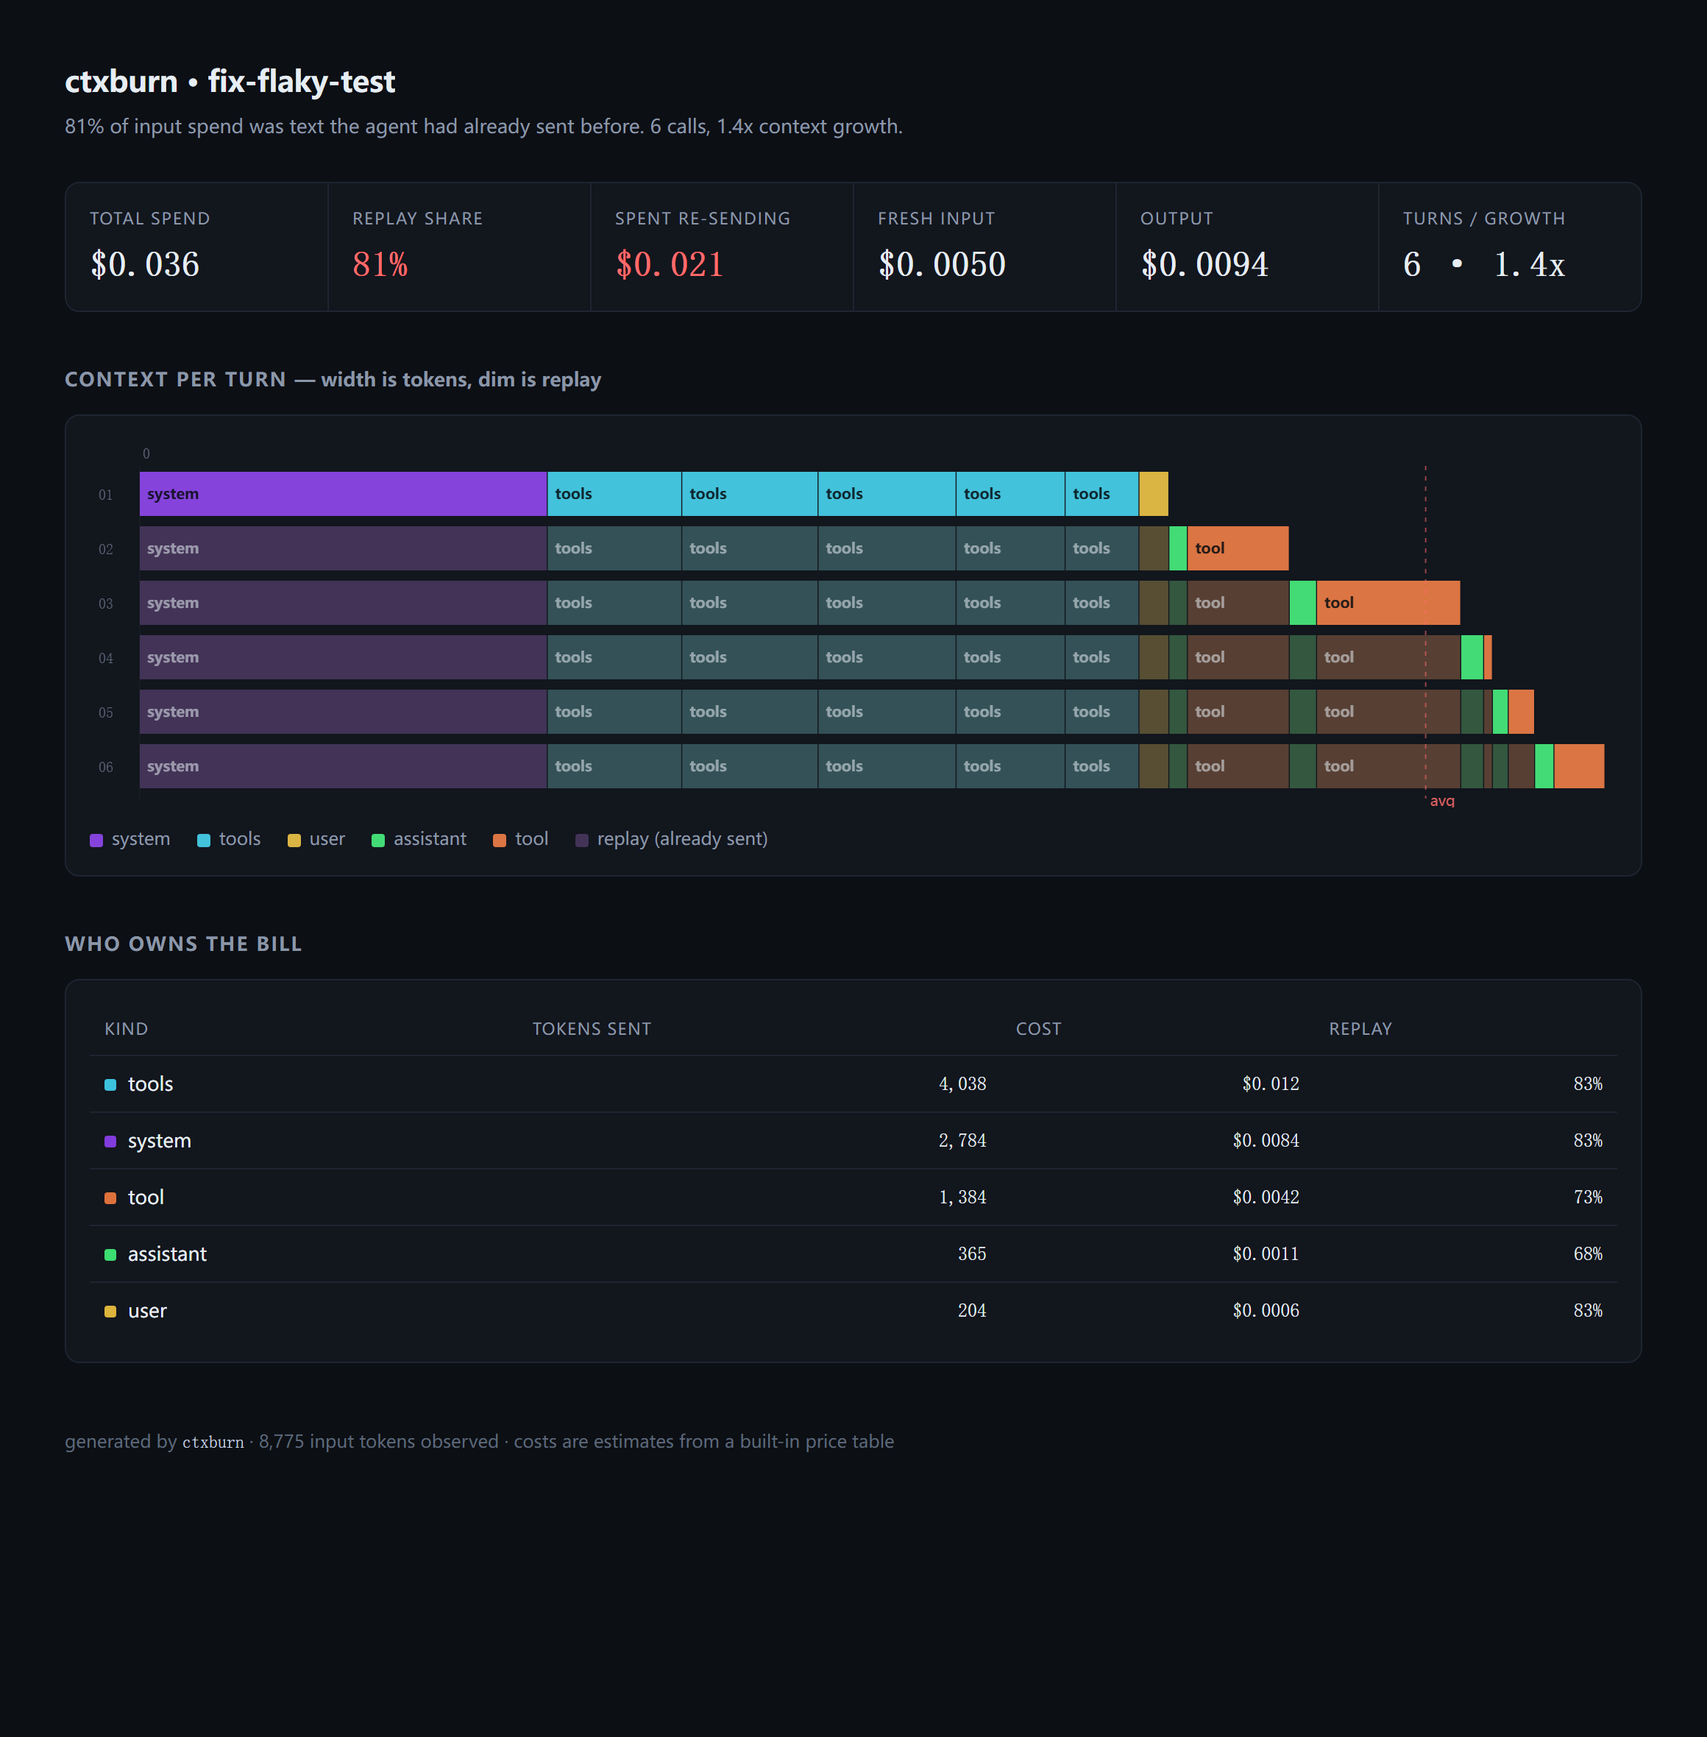
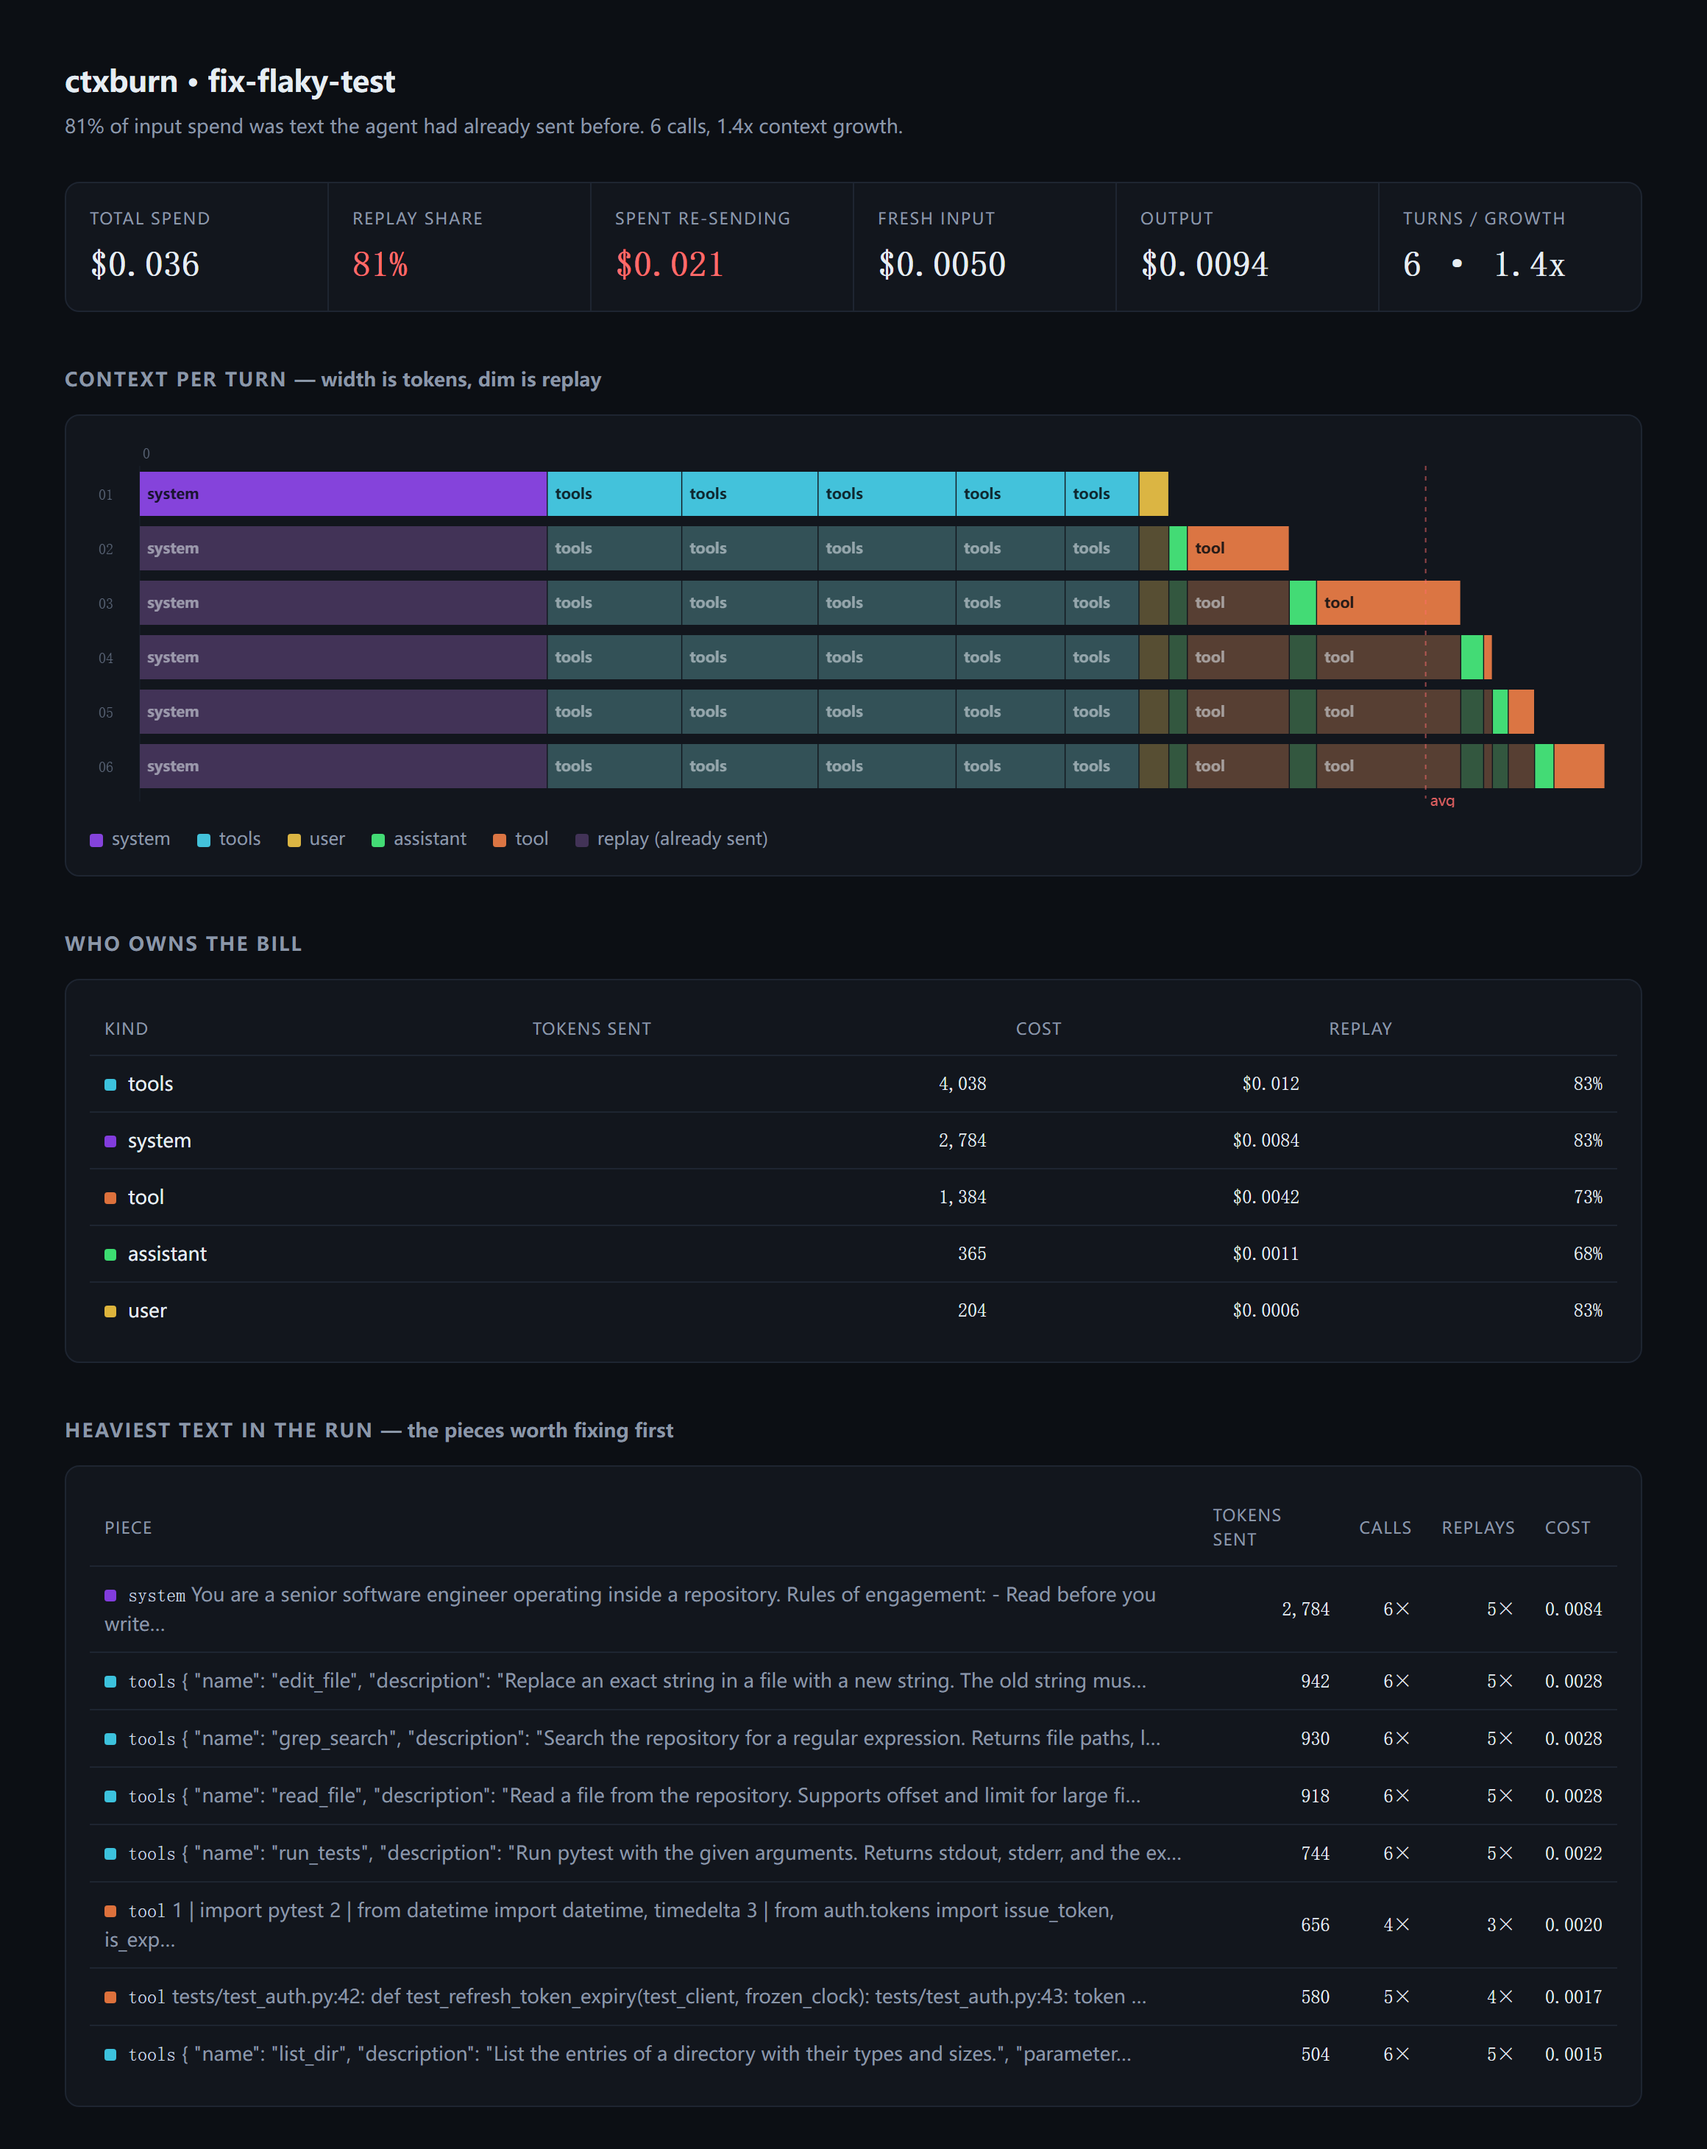
split tool schemas into per-tool segments and rank the heaviest pieces
A tool description is re-sent on every turn, so the report needs to name the
expensive one rather than hiding the set behind a single 'tools' bar.

diff --git a/src/ctxburn/render.py b/src/ctxburn/render.py
@@ -3,6 +3,7 @@
 from __future__ import annotations
 
 import json
+from html import escape
 
 from .analyze import Report
 
@@ -47,6 +48,20 @@ def render_html(report: Report, title: str | None = None) -> str:
         for k, v in kinds
     )
     winnable = r.cost_replay + r.cost_cached
+
+    def _top_row(s: dict) -> str:
+        hue = _HUE.get(s["kind"], 0)
+        return (
+            f'<tr><td><span class="dot" style="background:hsl({hue} 70% 55%)"></span>'
+            f'<code>{s["kind"]}</code> <span class="dim">{escape(s["preview"])}</span></td>'
+            f'<td class="num">{int(s["tokens"]):,}</td>'
+            f'<td class="num">{s["sends"]}×</td>'
+            f'<td class="num">{s["replays"]}×</td>'
+            f'<td class="num">{s["cost"]:.4f}</td>'
+            f"</tr>"
+        )
+
+    top_rows = "".join(_top_row(s) for s in r.top_segments)
     html = _TEMPLATE
     html = html.replace("__SUMMARY__", summary_line(r))
     html = html.replace("__TITLE__", headline)
@@ -59,6 +74,7 @@ def render_html(report: Report, title: str | None = None) -> str:
     html = html.replace("__GROWTH__", f"{r.context_growth:.1f}x")
     html = html.replace("__INTOK__", f"{r.total_input_tokens:,}")
     html = html.replace("__KINDROWS__", kind_rows)
+    html = html.replace("__TOP_ROWS__", top_rows)
     html = html.replace("__DATA__", payload.replace("</", "<\\/"))
     return html
 
@@ -105,6 +121,7 @@ _TEMPLATE = """<!doctype html>
     background:#05070a;border:1px solid var(--line);border-radius:7px;padding:7px 10px;
     font-size:12px;max-width:420px;z-index:9;box-shadow:0 8px 24px #0009}
   #tip b{color:var(--fresh)}
+  .dim{color:var(--dim)}
   footer{margin-top:44px;color:#5c6779;font-size:12px}
   code{font-family:ui-monospace,Menlo,monospace;color:#c9d4e2}
 </style></head><body><div class="wrap">
@@ -132,6 +149,14 @@ _TEMPLATE = """<!doctype html>
     <div class="card"><table>
       <thead><tr><th>kind</th><th class="num">tokens sent</th><th class="num">cost</th><th class="num">replay</th></tr></thead>
       <tbody>__KINDROWS__</tbody>
+    </table></div>
+  </section>
+
+  <section>
+    <h2>heaviest text in the run <span style="text-transform:none;letter-spacing:0">— the pieces worth fixing first</span></h2>
+    <div class="card"><table>
+      <thead><tr><th>piece</th><th class="num">tokens sent</th><th class="num">calls</th><th class="num">replays</th><th class="num">cost</th></tr></thead>
+      <tbody>__TOP_ROWS__</tbody>
     </table></div>
   </section>
 

diff --git a/src/ctxburn/analyze.py b/src/ctxburn/analyze.py
@@ -53,6 +53,7 @@ class Report:
     total_output_tokens: int
     total_cached_tokens: int
     by_kind: dict[str, list[float]]  # kind -> [tokens, cost, replay_tokens]
+    top_segments: list[dict]  # heaviest single pieces of text, across the whole run
     priced_estimate: bool
 
     @property
@@ -92,6 +93,7 @@ class Report:
             "context_growth": self.context_growth,
             "n_calls": self.n_calls,
             "by_kind": self.by_kind,
+            "top_segments": self.top_segments,
             "priced_estimate": self.priced_estimate,
             "calls": [
                 {
@@ -152,6 +154,7 @@ def analyze(trace: Trace, overrides: dict[str, Price] | None = None) -> Report:
     seen: dict[str, int] = {}
     calls: list[CallCost] = []
     by_kind: dict[str, list[float]] = {}
+    agg: dict[str, dict] = {}
 
     for idx, call in enumerate(trace.calls):
         price = overrides.get(call.model) or lookup(call.model)
@@ -198,6 +201,22 @@ def analyze(trace: Trace, overrides: dict[str, Price] | None = None) -> Report:
             bucket[0] += t
             bucket[1] += cost
             bucket[2] += t if is_replay else 0
+            a = agg.setdefault(
+                seg.key,
+                {
+                    "kind": seg.kind,
+                    "tokens": 0,
+                    "cost": 0.0,
+                    "sends": 0,
+                    "replays": 0,
+                    "preview": _preview(seg.text),
+                    "first_seen_at": first,
+                },
+            )
+            a["tokens"] += t
+            a["cost"] += cost
+            a["sends"] += 1
+            a["replays"] += 1 if is_replay else 0
             segs.append(
                 SegCost(
                     kind=seg.kind,
@@ -243,5 +262,6 @@ def analyze(trace: Trace, overrides: dict[str, Price] | None = None) -> Report:
         total_output_tokens=sum(c.output_tokens for c in calls),
         total_cached_tokens=sum(c.cached_tokens for c in calls),
         by_kind=by_kind,
+        top_segments=sorted(agg.values(), key=lambda a: -a["cost"])[:8],
         priced_estimate=any((overrides.get(c.model) or lookup(c.model)).estimated for c in calls),
     )

diff --git a/src/ctxburn/capture.py b/src/ctxburn/capture.py
@@ -54,10 +54,23 @@ def _text_of(content) -> str:
     return str(content)
 
 
-def segments_from_openai(messages: list[dict], tools: list[dict] | None) -> list[Segment]:
+def _tool_segments(tools) -> list[Segment]:
+    """One segment per tool, not one blob.
+
+    Tool schemas are re-sent verbatim on every turn and are often the largest
+    single repeated cost in an agent run. Splitting them means the report can
+    point at the one tool whose description is expensive, instead of hiding the
+    whole set behind a single `tools` bar.
+    """
     segs: list[Segment] = []
-    if tools:
-        segs.append(Segment("tools", json.dumps(tools, sort_keys=True, ensure_ascii=False)))
+    for t in tools or []:
+        body = t["function"] if isinstance(t, dict) and isinstance(t.get("function"), dict) else t
+        segs.append(Segment("tools", json.dumps(body, sort_keys=True, ensure_ascii=False)))
+    return segs
+
+
+def segments_from_openai(messages: list[dict], tools: list[dict] | None) -> list[Segment]:
+    segs: list[Segment] = _tool_segments(tools)
     for m in messages:
         role = m.get("role", "user")
         body = _text_of(m.get("content"))
@@ -78,8 +91,7 @@ def segments_from_anthropic(
     segs: list[Segment] = []
     if system:
         segs.append(Segment("system", _text_of(system)))
-    if tools:
-        segs.append(Segment("tools", json.dumps(tools, sort_keys=True, ensure_ascii=False)))
+    segs.extend(_tool_segments(tools))
     for m in messages:
         role = m.get("role", "user")
         kind = "assistant" if role == "assistant" else "user"

diff --git a/tests/test_capture.py b/tests/test_capture.py
@@ -29,6 +29,32 @@ def test_openai_two_tool_calls_get_distinct_keys():
     assert a[0].key != b[0].key
 
 
+def test_tools_split_per_tool():
+    tools = [
+        {"type": "function", "function": {"name": "a", "parameters": {"type": "object"}}},
+        {"type": "function", "function": {"name": "b", "parameters": {"type": "object"}}},
+    ]
+    segs = segments_from_openai([{"role": "user", "content": "hi"}], tools)
+    tool_segs = [s for s in segs if s.kind == "tools"]
+    assert len(tool_segs) == 2
+    assert tool_segs[0].key != tool_segs[1].key
+    assert '"name": "a"' in tool_segs[0].text
+    assert '"name": "b"' not in tool_segs[0].text
+
+
+def test_same_tool_fingerprints_the_same_across_sdks():
+    """A tool described identically must land on one segment, whichever SDK sent it."""
+    a = segments_from_anthropic(
+        [], None, [{"name": "read", "input_schema": {"type": "object"}}]
+    )
+    b = segments_from_openai(
+        [],
+        [{"type": "function", "function": {"name": "read", "input_schema": {"type": "object"}}}],
+    )
+    assert len(a) == len(b) == 1
+    assert a[0].key == b[0].key
+
+
 def test_anthropic_system_string_and_tool_result():
     segs = segments_from_anthropic(
         [

diff --git a/src/ctxburn/cli.py b/src/ctxburn/cli.py
@@ -48,6 +48,14 @@ def cmd_report(args: argparse.Namespace) -> int:
     for kind, (tokens, cost, rep) in sorted(report.by_kind.items(), key=lambda kv: -kv[1][1]):
         share = rep / tokens if tokens else 0
         print(f"  {kind:<10} {int(tokens):>8,} tok  {_money(cost):>8}  {share:>4.0%} replay")
+    if report.top_segments:
+        print()
+        print("  heaviest pieces")
+        for s in report.top_segments[:5]:
+            print(
+                f"  {s['kind']:<10} {int(s['tokens']):>8,} tok  {s['sends']}x  "
+                f"{_money(s['cost']):>8}  {s['preview'][:46]}"
+            )
     print()
     print(f"→ {args.out}")
     return 0
